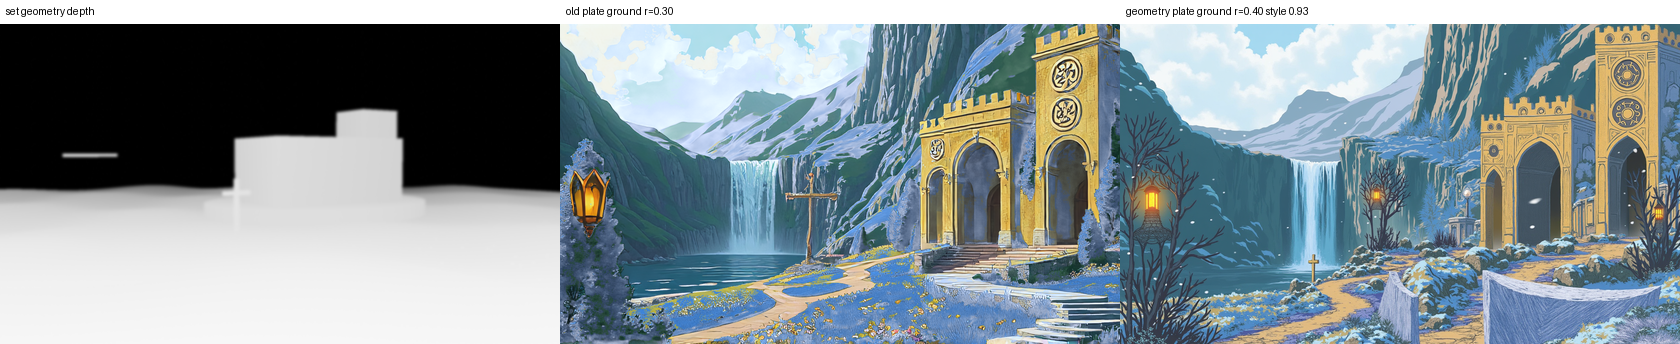
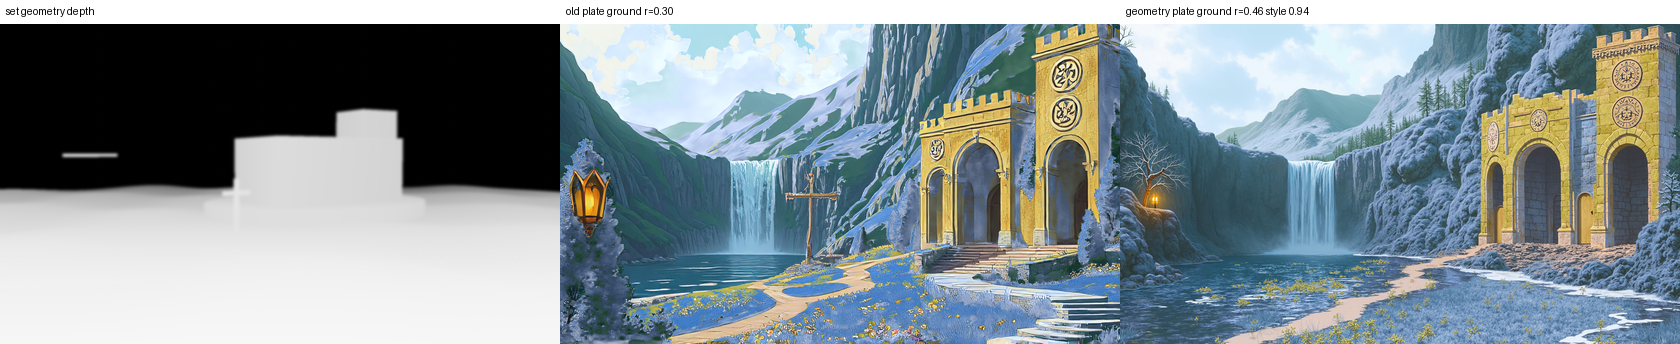
media export 20261008-2119

Changed region(s): [[0.65, 0.0581, 1.0, 1.0]]

diff --git a/IMPROVE_STATUS.md b/IMPROVE_STATUS.md
@@ -1,19 +1,19 @@
 # Improvement status
 
-Updated 2026-10-08 21:05. Cycle 512.
+Updated 2026-10-08 21:18. Cycle 513.
 
 ## GPU duty cycle (last 24 h, 1-min samples)
 
-- card working (>=20%) **30%** of the last 24 h (434 busy minutes; 3 minutes unsampled, counted idle); mean utilisation of sampled minutes 29%
+- card working (>=20%) **30%** of the last 24 h (434 busy minutes; 2 minutes unsampled, counted idle); mean utilisation of sampled minutes 29%
 
 ## Adopted (what the masters are rendered with)
 
 - walk: RW_STRIDE=0.6, RW_DROP=0.062, RW_ARM_OUT=10 (defaults v1)
-- scene: SET_PLATE=/workspace/text-to-video/series/tir-na-nog-legend/sets/tir_na_nog/master_geo.png, SET_RELIEF_NPY=/workspace/loopwork/improve/plate_geo_depth.npy, SET_RELIEF_GAIN=0.8, SET_PLATE_WINTER=/workspace/text-to-video/series/tir-na-nog-legend/sets/tir_na_nog/master_winter_geo.png, SET_RELIEF_NPY_WINTER=/workspace/loopwork/improve/plate_winter_geo_depth.npy (plate v12)
+- scene: SET_PLATE=/workspace/text-to-video/series/tir-na-nog-legend/sets/tir_na_nog/master_geo.png, SET_RELIEF_NPY=/workspace/loopwork/improve/plate_geo_depth.npy, SET_RELIEF_GAIN=0.8, SET_PLATE_WINTER=/workspace/text-to-video/series/tir-na-nog-legend/sets/tir_na_nog/master_winter_geo.png, SET_RELIEF_NPY_WINTER=/workspace/loopwork/improve/plate_winter_geo_depth.npy (plate v13)
 - cast oisin: st_chibi3_oisin_m23845 (hand compactness 0.31, lower is better)
 - cast niamh: st_chibi3_niamh_m20705_tex (hand compactness 0.20, lower is better)
 - masters: nine_waterfalls_rigify_cast4_web.mp4, nine_waterfalls_loop_97c79e_web.mp4, nine_waterfalls_loop_419a38_web.mp4
-- masters built at inputs: d1|st_chibi3_oisin_m23845|st_chibi3_niamh_m20705_tex|p7|scb8174; current inputs: d1|st_chibi3_oisin_m23845|st_chibi3_niamh_m20705|p11|scb8174
+- masters built at inputs: d1|st_chibi3_oisin_m23845|st_chibi3_niamh_m20705_tex|p7|scb8174; current inputs: d1|st_chibi3_oisin_m23845|st_chibi3_niamh_m20705|p12|s84a4b1
 
 ## Settled (not re-run until an input changes)
 
@@ -33,6 +33,7 @@ Updated 2026-10-08 21:05. Cycle 512.
 - plate_flux_r1: queued @ g1
 - plate_flux_r2: queued @ g1
 - plate_flux_winter_r0: queued @ g2
+- plate_flux_winter_r1: queued @ g2
 - plate_shots_m9_r0: queued @ g2
 - scene_fit: queued @ st_chibi3_oisin_m23845|st_chibi3_niamh_m20705_tex|p7
 - walk_RW_ARM_OUT: queued @ d1|st_chibi3_oisin_m22223|st_chibi3_niamh_m20705_tex|p2|s39c2a7
@@ -53,7 +54,6 @@ Updated 2026-10-08 21:05. Cycle 512.
 
 ## Last 12 experiments
 
-- 2026-10-08 18:31 cast: niamh best new candidate st_chibi3_niamh_m20705_tex hands 0.20, adopted st_chibi3_niamh_m20705_tex (0.20) stands
 - 2026-10-08 19:19 cast: oisin best new candidate st_chibi3_oisin_m23845 hands 0.31, adopted st_chibi3_oisin_m23845 (0.31) stands
 - 2026-10-08 19:19 cast: niamh best new candidate st_chibi3_niamh_m20705_tex hands 0.20, adopted st_chibi3_niamh_m20705_tex (0.20) stands
 - 2026-10-08 19:24 cast_face: st_chibi3_niamh_m20705 face rig built, talk probe 40 frames
@@ -65,3 +65,4 @@ Updated 2026-10-08 21:05. Cycle 512.
 - 2026-10-08 20:38 plate_geo cliff round 12: 9 plates (3 failed the style gate >=0.85), best agreement r=0.382 vs old plate r=0.322, adopted r=-1.000 stands
 - 2026-10-08 20:53 plate_shots round 0: side r=0.56 style=0.87 ADOPTED (4/4 passed); reverse r=0.41 style=0.91 ADOPTED (4/4 passed); closer r=0.59 style=0.93 ADOPTED (4/4 passed) -> plate v11
 - 2026-10-08 21:05 plate_geo winter round 10: 9 plates, best r10_winter_cn0.7_flux_d60.png agreement r=0.397 style 0.932 vs old plate r=0.298 -> ADOPTED as master_winter_geo.png (plate v12)
+- 2026-10-08 21:18 plate_geo winter round 11: 9 plates, best r11_winter_cn0.9_flux_d60.png agreement r=0.459 style 0.936 vs old plate r=0.298 -> ADOPTED as master_winter_geo.png (plate v13)

diff --git a/IMPROVE_LEDGER.md b/IMPROVE_LEDGER.md
@@ -594,3 +594,4 @@ One line per experiment the GPU loop ran, newest last.
 - 2026-10-08 20:38 plate_geo cliff round 12: 9 plates (3 failed the style gate >=0.85), best agreement r=0.382 vs old plate r=0.322, adopted r=-1.000 stands
 - 2026-10-08 20:53 plate_shots round 0: side r=0.56 style=0.87 ADOPTED (4/4 passed); reverse r=0.41 style=0.91 ADOPTED (4/4 passed); closer r=0.59 style=0.93 ADOPTED (4/4 passed) -> plate v11
 - 2026-10-08 21:05 plate_geo winter round 10: 9 plates, best r10_winter_cn0.7_flux_d60.png agreement r=0.397 style 0.932 vs old plate r=0.298 -> ADOPTED as master_winter_geo.png (plate v12)
+- 2026-10-08 21:18 plate_geo winter round 11: 9 plates, best r11_winter_cn0.9_flux_d60.png agreement r=0.459 style 0.936 vs old plate r=0.298 -> ADOPTED as master_winter_geo.png (plate v13)
